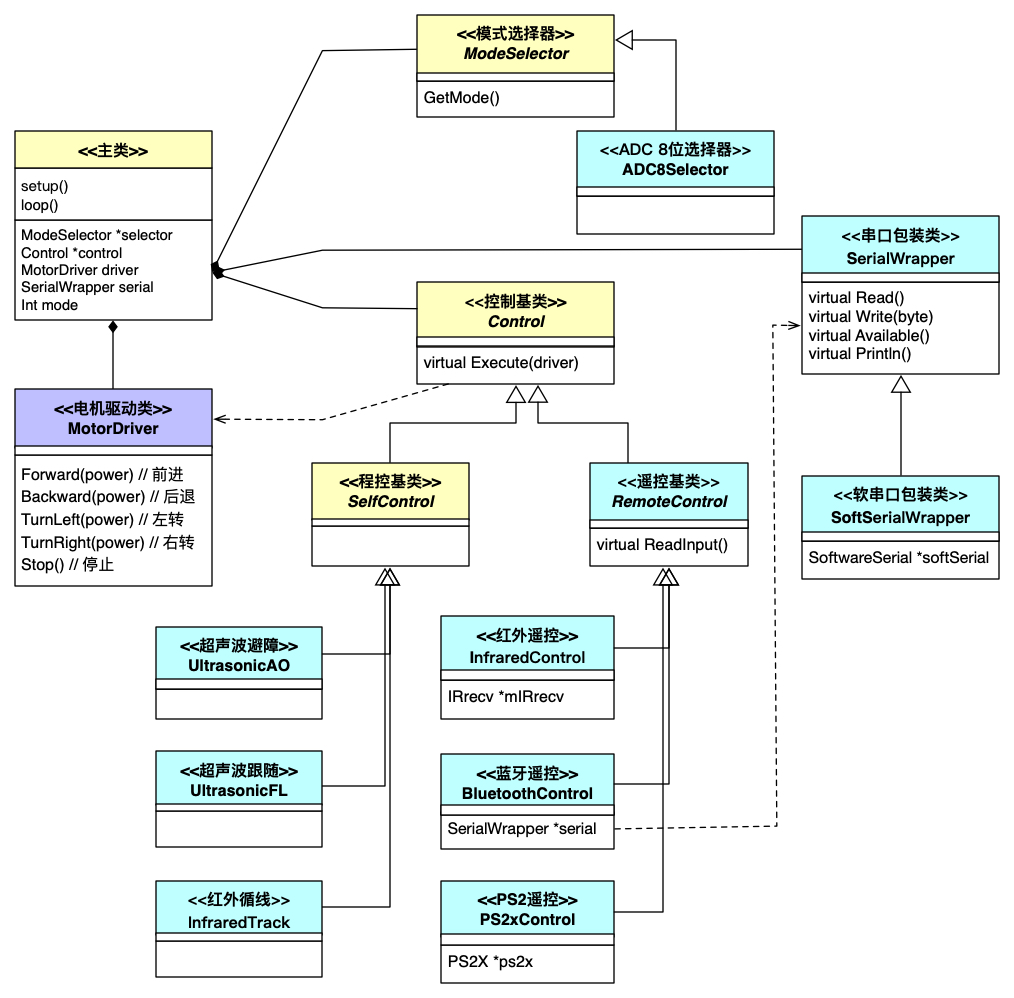
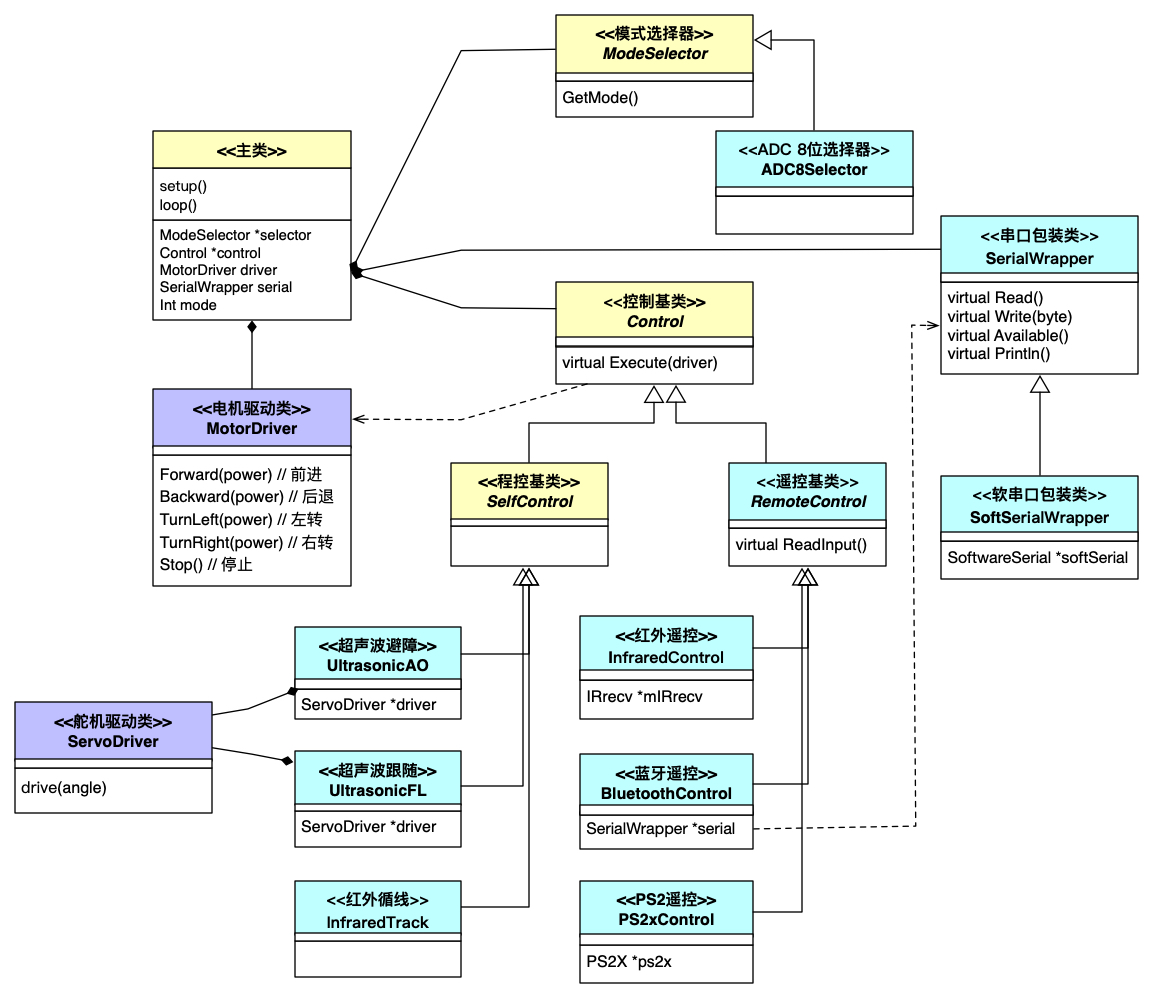
add ServoDriver class.

diff --git a/arduino/UltrasonicAO.cpp b/arduino/UltrasonicAO.cpp
@@ -1,4 +1,5 @@
 #include "UltrasonicAO.h"
+#include "ServoDriver.h"
 
 #define KeepAway 25//离障碍最近距离
 #define LookDelay 100//转动舵机的停顿时间
@@ -6,75 +7,14 @@
 #define BackDelay 200//倒退时间
 #define ReboundDelay 150 //反弹时间
 
-void UltrasonicAO::Servo(uint16_t angle) { //定义一个脉冲函数
-  //发送50个脉冲
-  for(int i=0;i<50;i++){
-    int pulsewidth = (angle * 11) + 500; //将角度转化为500-2480的脉宽值
-    digitalWrite(mSeroPin, HIGH);   //将舵机接口电平至高
-    delayMicroseconds(pulsewidth);  //延时脉宽值的微秒数
-    digitalWrite(mSeroPin, LOW);    //将舵机接口电平至低
-    delayMicroseconds(20000 - pulsewidth);
-  }
-  delay(100);
-}
-
-void UltrasonicAO::LookAngle(uint16_t angle) {
-  Servo(angle);
-  delay(LookDelay);
-}
-
-void UltrasonicAO::LookForward() {//向前看
-  Servo(90);
-  delay(LookDelay);
-}
-
-float UltrasonicAO::CheckDistance() {//超声波探测障碍物距离函数
-  float distance;
-  digitalWrite(mTrigPin, LOW);
-  delayMicroseconds(2);
-  digitalWrite(mTrigPin, HIGH);
-  delayMicroseconds(10);
-  digitalWrite(mTrigPin, LOW);
-  // 检测脉冲宽度，并计算出距离
-  distance = pulseIn(mEchoPin, HIGH) / 58.00;
-
-  Serial.print("Distance:");
-  Serial.print(distance);
-  Serial.print("cm");
-  Serial.println();
-  
-  return distance;
-}
-
-int UltrasonicAO::LookAround() {//观察周围情况，并返回方向代码
-  LookAngle(30);
-  int D1 = CheckDistance();
-  LookAngle(60);
-  int D2 = CheckDistance();
-  LookForward();
-  int D3 = CheckDistance();
-  LookAngle(120);
-  int D4 = CheckDistance();
-  LookAngle(150);
-  int D5 = CheckDistance();
-  if (D1 > D2 && D1 > D3 && D1 > D4 && D1 > D5 && D1 > KeepAway)return 1;
-  if (D2 > D1 && D2 > D3 && D2 > D4 && D2 > D5 && D2 > KeepAway)return 2;
-  if (D3 > D2 && D3 > D1 && D3 > D4 && D3 > D5 && D3 > KeepAway)return 3;
-  if (D4 > D2 && D4 > D3 && D4 > D1 && D4 > D5 && D4 > KeepAway)return 4;
-  if (D5 > D2 && D5 > D3 && D5 > D4 && D5 > D1 && D5 > KeepAway)return 5;
-  return 0;
-}
-
-
-UltrasonicAO::UltrasonicAO(uint8_t echoPin, uint8_t trigPin, uint8_t seroPin)
+UltrasonicAO::UltrasonicAO(uint8_t echoPin, uint8_t trigPin, uint8_t servoPin)
 {
   mEchoPin = echoPin;
   mTrigPin = trigPin;
-  mSeroPin = seroPin;
+  mServoDriver = new ServoDriver(servoPin);
   
   pinMode(echoPin, INPUT);
   pinMode(trigPin, OUTPUT);
-  pinMode(seroPin, OUTPUT);
 }
 
 void UltrasonicAO::Execute(MotorDriver driver)
@@ -121,7 +61,55 @@ void UltrasonicAO::Execute(MotorDriver driver)
   }
 }
 
+
+void UltrasonicAO::LookAngle(uint16_t angle) {
+  mServoDriver->Drive(angle);
+  delay(LookDelay);
+}
+
+void UltrasonicAO::LookForward() {//向前看
+  mServoDriver->Drive(90);
+  delay(LookDelay);
+}
+
+float UltrasonicAO::CheckDistance() {//超声波探测障碍物距离函数
+  float distance;
+  digitalWrite(mTrigPin, LOW);
+  delayMicroseconds(2);
+  digitalWrite(mTrigPin, HIGH);
+  delayMicroseconds(10);
+  digitalWrite(mTrigPin, LOW);
+  // 检测脉冲宽度，并计算出距离
+  distance = pulseIn(mEchoPin, HIGH) / 58.00;
+
+  Serial.print("Distance:");
+  Serial.print(distance);
+  Serial.print("cm");
+  Serial.println();
+  
+  return distance;
+}
+
+int UltrasonicAO::LookAround() {//观察周围情况，并返回方向代码
+  LookAngle(30);
+  int D1 = CheckDistance();
+  LookAngle(60);
+  int D2 = CheckDistance();
+  LookForward();
+  int D3 = CheckDistance();
+  LookAngle(120);
+  int D4 = CheckDistance();
+  LookAngle(150);
+  int D5 = CheckDistance();
+  if (D1 > D2 && D1 > D3 && D1 > D4 && D1 > D5 && D1 > KeepAway)return 1;
+  if (D2 > D1 && D2 > D3 && D2 > D4 && D2 > D5 && D2 > KeepAway)return 2;
+  if (D3 > D2 && D3 > D1 && D3 > D4 && D3 > D5 && D3 > KeepAway)return 3;
+  if (D4 > D2 && D4 > D3 && D4 > D1 && D4 > D5 && D4 > KeepAway)return 4;
+  if (D5 > D2 && D5 > D3 && D5 > D4 && D5 > D1 && D5 > KeepAway)return 5;
+  return 0;
+}
+
 UltrasonicAO::~UltrasonicAO()
 {
-  
+  delete mServoDriver;
 }

diff --git a/arduino/UltrasonicFL.cpp b/arduino/UltrasonicFL.cpp
@@ -1,4 +1,5 @@
 #include "UltrasonicFL.h"
+#include "ServoDriver.h"
 
 #define KeepAway 25//离障碍最近距离
 #define LookDelay 300//转动舵机的停顿时间
@@ -6,20 +7,29 @@
 #define BackDelay 600//倒退时间
 #define ReboundDelay 150 //反弹时间
 
-void UltrasonicFL::Servo(uint16_t angle) { //定义一个脉冲函数
-  //发送50个脉冲
-  for(int i=0;i<50;i++){
-    int pulsewidth = (angle * 11) + 500; //将角度转化为500-2480的脉宽值
-    digitalWrite(mSeroPin, HIGH);   //将舵机接口电平至高
-    delayMicroseconds(pulsewidth);  //延时脉宽值的微秒数
-    digitalWrite(mSeroPin, LOW);    //将舵机接口电平至低
-    delayMicroseconds(20000 - pulsewidth);
+UltrasonicFL::UltrasonicFL(uint8_t echoPin, uint8_t trigPin, uint8_t servoPin)
+{
+  mEchoPin = echoPin;
+  mTrigPin = trigPin;
+  mServoDriver = new ServoDriver(servoPin);
+  
+  pinMode(echoPin, INPUT);
+  pinMode(trigPin, OUTPUT);
+}
+
+void UltrasonicFL::Execute(MotorDriver driver)
+{
+   LookForward();//调整超声波探测模块向前看
+   int distance = CheckDistance();//查看距离
+  if (distance > KeepAway) {//如果距离大于最小距离
+    driver.Forward(MotoPowerMax);//一直向前
+  } else {
+    
   }
-  delay(100);
 }
 
 void UltrasonicFL::LookForward() {//向前看
-  Servo(90);
+  mServoDriver->Drive(90);
   delay(LookDelay);
 }
 
@@ -41,29 +51,7 @@ float UltrasonicFL::CheckDistance() {//超声波探测障碍物距离函数
   return distance;
 }
 
-UltrasonicFL::UltrasonicFL(uint8_t echoPin, uint8_t trigPin, uint8_t seroPin)
-{
-  mEchoPin = echoPin;
-  mTrigPin = trigPin;
-  mSeroPin = seroPin;
-  
-  pinMode(echoPin, INPUT);
-  pinMode(trigPin, OUTPUT);
-  pinMode(seroPin, OUTPUT);
-}
-
-void UltrasonicFL::Execute(MotorDriver driver)
-{
-   LookForward();//调整超声波探测模块向前看
-   int distance = CheckDistance();//查看距离
-  if (distance > KeepAway) {//如果距离大于最小距离
-    driver.Forward(MotoPowerMax);//一直向前
-  } else {
-    
-  }
-}
-
 UltrasonicFL::~UltrasonicFL()
 {
-  
+  delete mServoDriver;
 }

diff --git a/arduino/UltrasonicAO.h b/arduino/UltrasonicAO.h
@@ -2,23 +2,23 @@
 #define __ULTRASONIC_NO_H_
 
 #include "SelfControl.h"
+#include "ServoDriver.h"
 
 class UltrasonicAO : public SelfControl
 {
    public:
-     UltrasonicAO(uint8_t echoPin, uint8_t trigPin, uint8_t seroPin);
+     UltrasonicAO(uint8_t echoPin, uint8_t trigPin, uint8_t servoPin);
      ~UltrasonicAO();
 
     void Execute(MotorDriver driver) override;
 
   private:
-    void Servo(uint16_t angle);
     void LookForward();
     int LookAround();
     void LookAngle(uint16_t angle);
     float CheckDistance();  
     
-    uint8_t mSeroPin;
+    ServoDriver *mServoDriver;
     uint8_t mTrigPin;
     uint8_t mEchoPin;
 };

diff --git a/arduino/UltrasonicFL.h b/arduino/UltrasonicFL.h
@@ -2,21 +2,21 @@
 #define __ULTRASONIC_FL_H_
 
 #include "SelfControl.h"
+#include "ServoDriver.h"
 
 class UltrasonicFL : public SelfControl
 {
    public:
-     UltrasonicFL(uint8_t echoPin, uint8_t trigPin, uint8_t seroPin);
+     UltrasonicFL(uint8_t echoPin, uint8_t trigPin, uint8_t servoPin);
      ~UltrasonicFL();
 
     void Execute(MotorDriver driver) override;
     
   private:
-    void Servo(uint16_t angle);
     void LookForward();
     float CheckDistance();  
     
-    uint8_t mSeroPin;
+    ServoDriver *mServoDriver;
     uint8_t mTrigPin;
     uint8_t mEchoPin;
 

diff --git a/arduino/ServoDriver.h b/arduino/ServoDriver.h
@@ -1,0 +1,20 @@
+#ifndef __SERVO_DRIVER_H_
+#define __SERVO_DRIVER_H_
+#pragma once
+
+#include "ServoDriver.h"
+#include "Servo.h"
+
+class ServoDriver
+{
+   public:
+     ServoDriver(uint8_t servoPin);
+     ~ServoDriver();
+
+     void Drive(int angle);
+
+   private:
+     Servo *mServo;  
+};
+
+#endif

diff --git a/arduino/ServoDriver.cpp b/arduino/ServoDriver.cpp
@@ -1,0 +1,18 @@
+#include "ServoDriver.h"
+#include "Servo.h"
+
+ServoDriver::ServoDriver(uint8_t servoPin)
+{
+  mServo = new Servo();
+  mServo->attach(servoPin);
+}
+
+void ServoDriver::Drive(int angle)
+{
+  mServo->write(angle);
+}
+
+ServoDriver::~ServoDriver()
+{
+  delete mServo;
+}

diff --git a/arduino/ADC8Selector.h b/arduino/ADC8Selector.h
@@ -8,8 +8,8 @@
 class ADC8Selector : public ModeSelector
 {
   public:
-    ADC8Selector::ADC8Selector(uint8_t inPin);
-    ADC8Selector::~ADC8Selector();
+    ADC8Selector(uint8_t inPin);
+    ~ADC8Selector();
 
     uint8_t GetMode() override;
 
